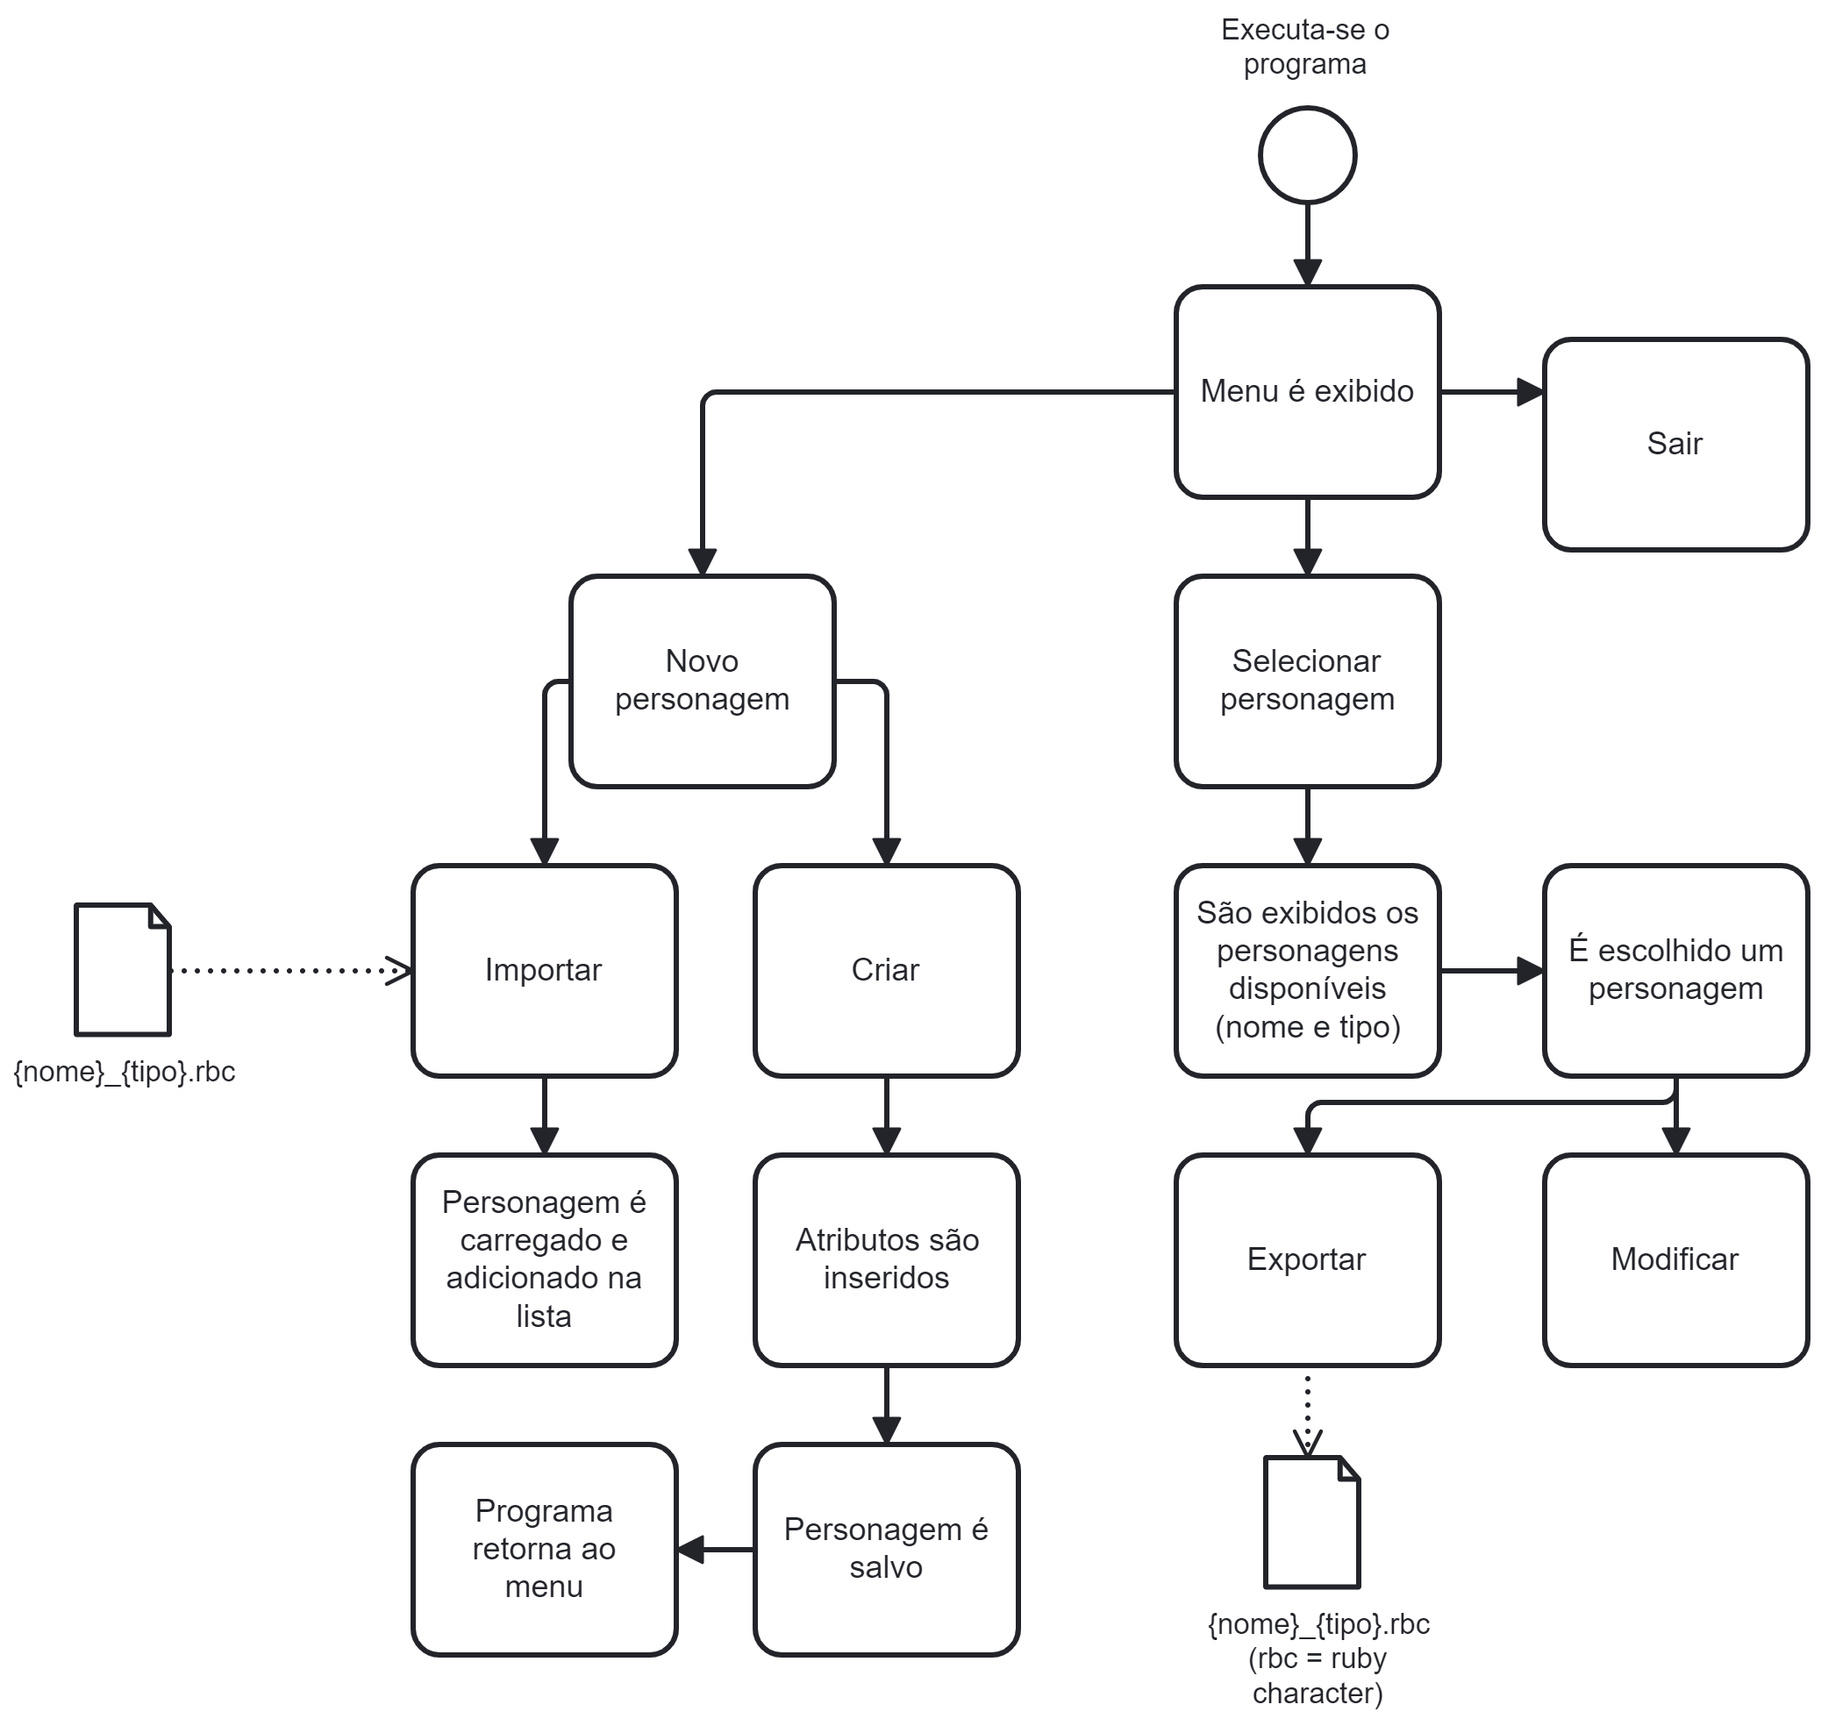
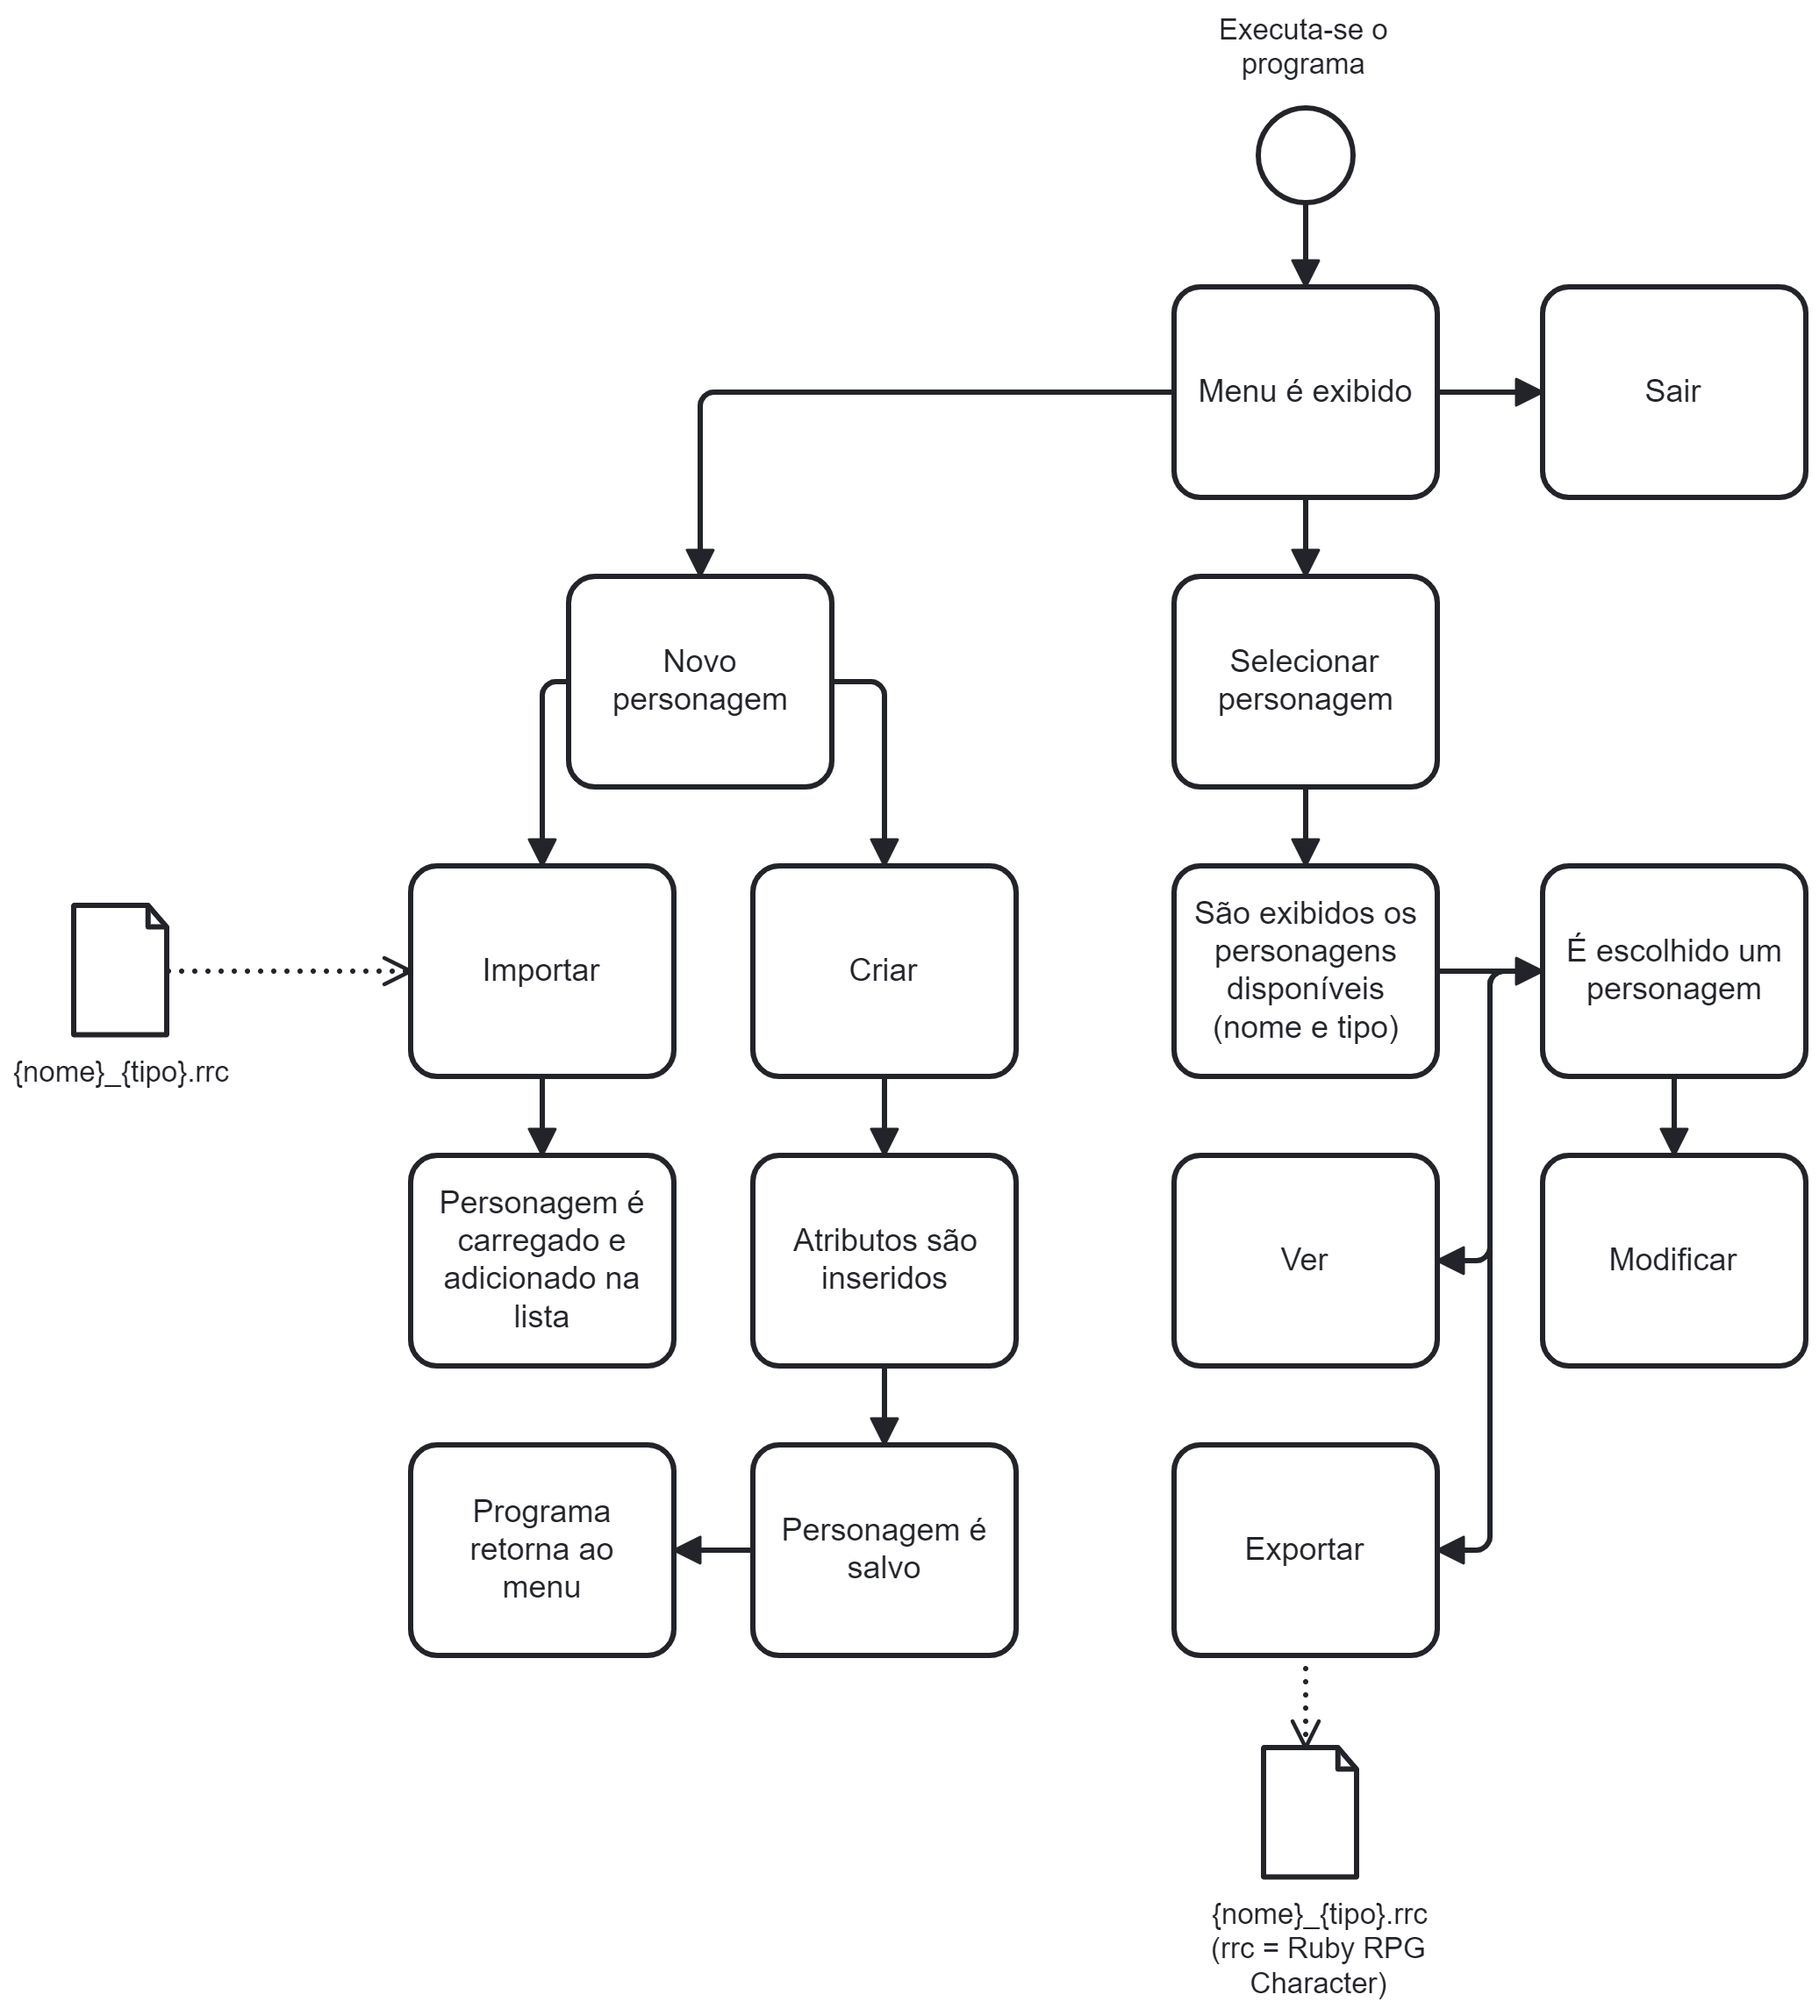
mais documentação, preparação de funções e ajuste nos arquivos especiais rrc

diff --git a/functions/character.rb b/functions/character.rb
@@ -1,0 +1,19 @@
+module RRBS
+    class MyRRBS
+        attr_accessor :listing
+        def initialize
+            @listing = []
+        end
+    end
+
+    class RubyRPGCharacter
+        attr_accessor :name, :type, :power, :style, :description
+        def initialize(name="no name", type="No type", power="No power", style="No style", description="No description")    
+            @name = name
+            @type = type
+            @power = power
+            @style = style
+            @description = description
+        end
+    end
+end

diff --git a/functions/rrc.rb b/functions/rrc.rb
@@ -1,0 +1,8 @@
+module RRCFile
+    class ExpRRB(filepath)
+        attr_accessor :filepath
+        def initialize
+            @filepath = filepath
+        end
+    end
+end

diff --git a/play.rb b/play.rb
@@ -1,0 +1,5 @@
+require "functions/character.rb"
+require "functions/rrc.rb"
+include RRBS
+include RRCFile
+

diff --git a/README.md b/README.md
@@ -7,3 +7,7 @@
 PARA FUNCIONAR, É NECESSÁRIO QUE O RUBY ESTEJA INSTALADO DEVIAMENTE. [Clique aqui para ir à pagina de download](https://www.ruby-lang.org/pt/downloads/).
 <br>Execute o arquivo "play.rb" ou, alternativamente, abra o prompt de comando e navege até a pasta onde está o arquivo "play.rb" e execute o comando
 <br><strong>ruby play.rb</strong>
+
+<h2>O que é RRB e o que são arquivos .rrb?</h2>
+
+RRB é uma abreviação de <strong>Ruby RPG Character</strong>, e os arquivos <strong>.rrb</strong> são arquivos especiais criados especificamente para este programa que contém os dados de personagens para importação e exportação dentro do próprio programa 
